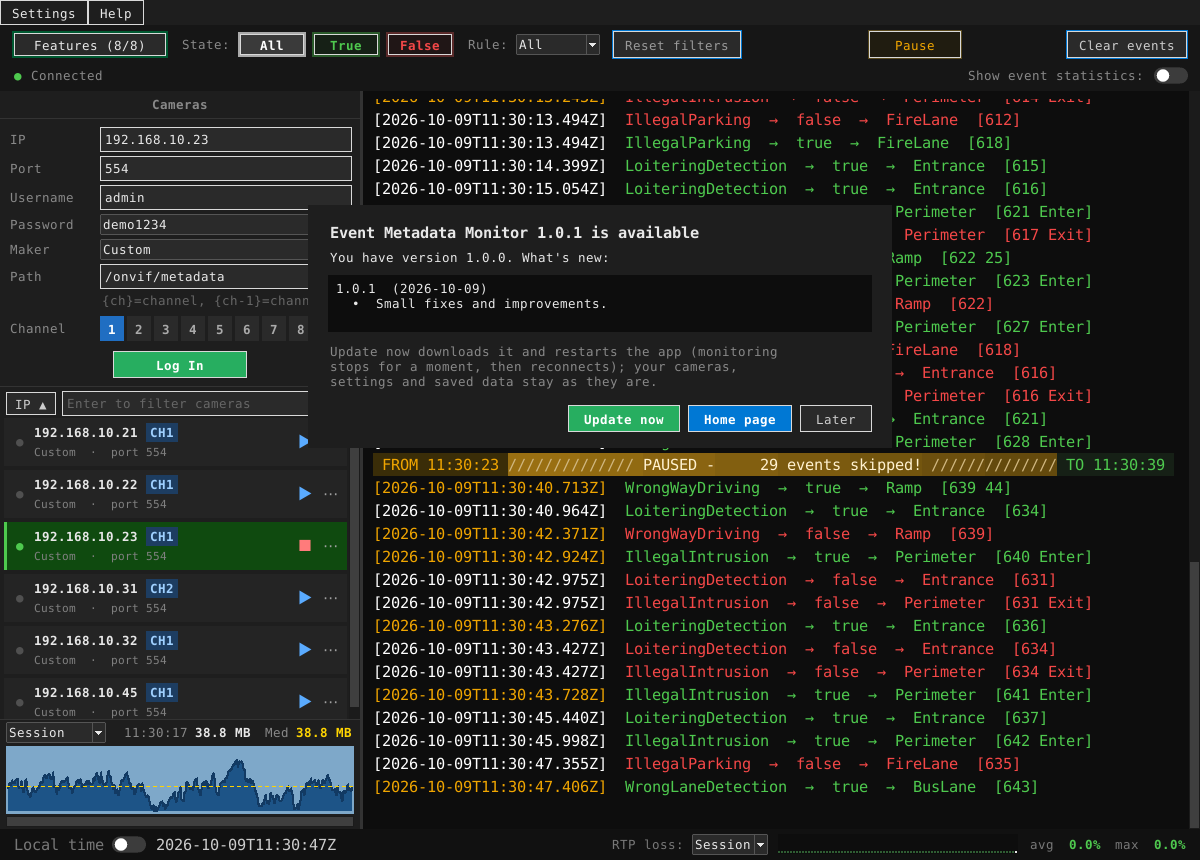
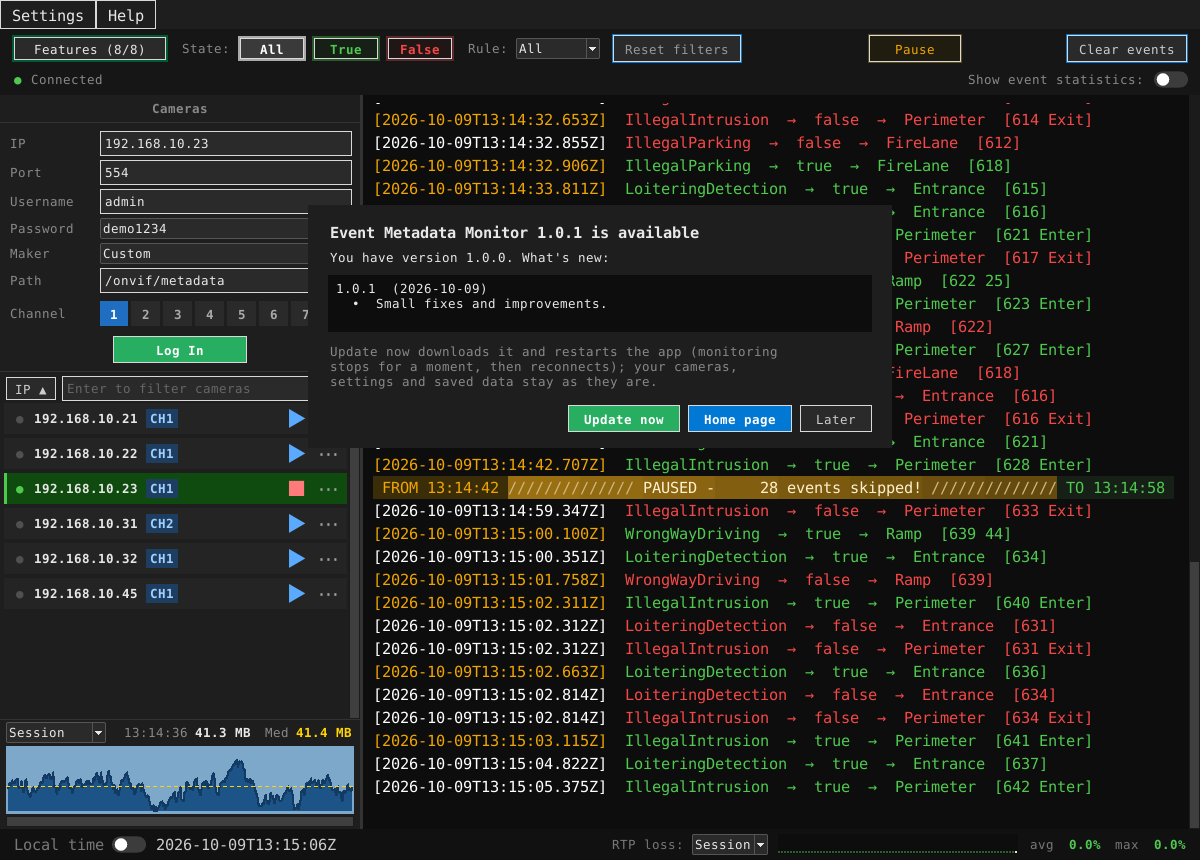
Screenshots and tutorial: new camera rows, menus

diff --git a/index.html b/index.html
@@ -208,7 +208,7 @@
       <li>Enter the camera's IP address, user name and password. Choose its <b>Maker</b> to fill in the
         path of its metadata stream. Not in the list? Choose <b>Custom</b> and enter the path from
         the camera's ONVIF settings or manual (ONVIF Device Manager shows it too). Pick the channel
-        (<b>+</b> for one above 8) and click <b>Log In</b>.</li>
+        and click <b>Log In</b>.</li>
       <li>The camera joins the list and connects: events appear as it sends them. Later, click it in the list
         (or its &#9654;) to connect again; its &#8943; menu opens its data folder or deletes it.</li>
       <li>Use <b>Features</b>, <b>State</b> and <b>Rule</b> to narrow the log, and <b>Show event statistics</b>
@@ -345,7 +345,7 @@ const DEMO_VIDEO = "media/demo.mp4";
 const DEMO_POSTER = "media/demo.jpg";
 // The screenshots' revision: tools/demo_screenshots.py sets it when it saves new
 // ones, so browsers and the Pages CDN fetch them again instead of a cached copy.
-const MEDIA_REV = "202610091130";
+const MEDIA_REV = "202610091315";
 const SCREENSHOTS = [
   ["media/screenshot-1.png", "Main window after 30 hours: cameras, live event log, memory and RTP loss"],
   ["media/screenshot-2.png", "Choose the camera's maker: the path of its metadata stream is filled in"],
